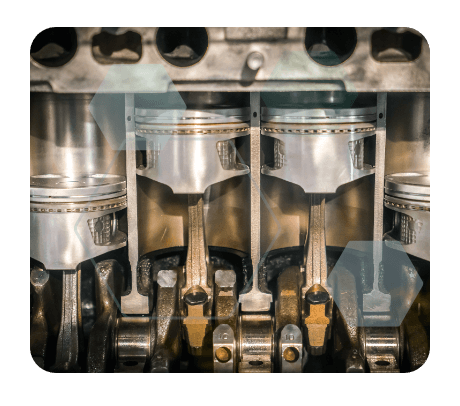
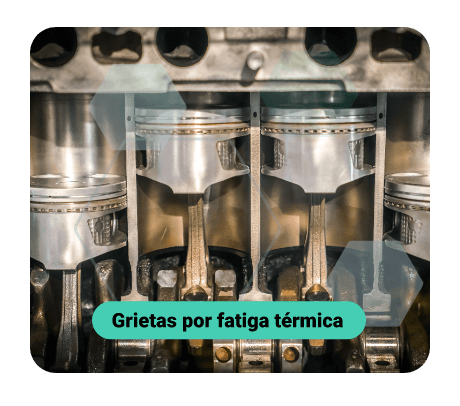
Imagenes actualizadas

Changed region(s): [[0.1826, 0.7389, 0.8217, 0.8571]]

diff --git a/src/views/Tema1.vue b/src/views/Tema1.vue
@@ -156,6 +156,29 @@
     p A pesar de su diseño robusto, el bloque de cilindros puede experimentar diversas fallas a lo largo de la vida útil del motor. La identificación y el diagnóstico temprano de estas fallas son cruciales para prevenir daños mayores y reparaciones costosas.
     p Algunas de las fallas y métodos de detección incluyen:
 
+    .row.z-10.justify-content-center.align-items-center.mb-4.mb-lg-5.bg-tarjetas-gris
+      .col-md-4
+        .tarjeta.tarjeta-slide.derecha.tarjeta--blanca(@mouseover="indicadorTarjetaSlide = false")
+          .indicador--hover(v-if="indicadorTarjetaSlide")
+          .tarjeta-slide__contenedor
+            .tarjeta-slide__contenido.p-4.p-xl-5.text-center
+              h4.mb-4.mt-5 Grietas por fatiga térmica 
+              p.mb-4 <strong>Causa:</strong> ciclos repetidos de calentamiento/enfriamiento. 
+              p.mb-4 <strong>Diagnóstico:</strong> líquidos penetrantes fluorescentes o termografía infrarroja. 
+
+            .tarjeta-slide__img(:style="{'background-image': `url(${require('@/assets/curso/temas/tema1/13.png')})`}")
+
+      .col-md-4
+        .tarjeta.tarjeta-slide.derecha.tarjeta--blanca(@mouseover="indicadorTarjetaSlide = false")
+          .tarjeta-slide__contenedor
+            .tarjeta-slide__img(:style="{'background-image': `url(${require('@/assets/curso/temas/tema1/14.png')})`}")
+            .tarjeta-slide__contenido.p-4.p-xl-5.text-center
+              h4.mb-4.mt-5.tarjeta-flip-title Deformación de bancadas 
+              p.mb-4 <strong>Síntoma:</strong> desalineación >0.1 mm en soportes de cigüeñal. 
+              p.mb-4 <strong>Verificación:</strong> uso de regla de precisión clase 0 (±0.02 mm). 
+
+
+
     .fullwith-bg.fullwith-bg--4.d-none.d-xl-block
     .row.justify-content-center.align-items-center.z-10.mb-4.mb-lg-5
       .col-10.col-lg-8

diff --git a/src/styles/_custom.sass b/src/styles/_custom.sass
@@ -112,3 +112,18 @@ figcaption
 
   .img-infografica__item
     width: 5%
+
+.bg-tarjetas-gris
+  position: relative
+  &::after
+    position: absolute
+    top: 50%
+    left: 50%
+    transform: translate(-50%, -50%)
+    content: url('../assets/curso/temas/tema1/bg-gris.png')
+    z-index: -1
+
+.tarjeta-flip-title
+  background-color: #D9BBA9
+  display: inline-block
+  padding: 5px 20px

diff --git a/src/views/Tema2.vue b/src/views/Tema2.vue
@@ -5,7 +5,7 @@
     .titulo-principal.color-acento-contenido
       .titulo-principal__numero
         span 2
-      h1 Tema 2
+      h1 Camisas de cilindros
 
 </template>
 
